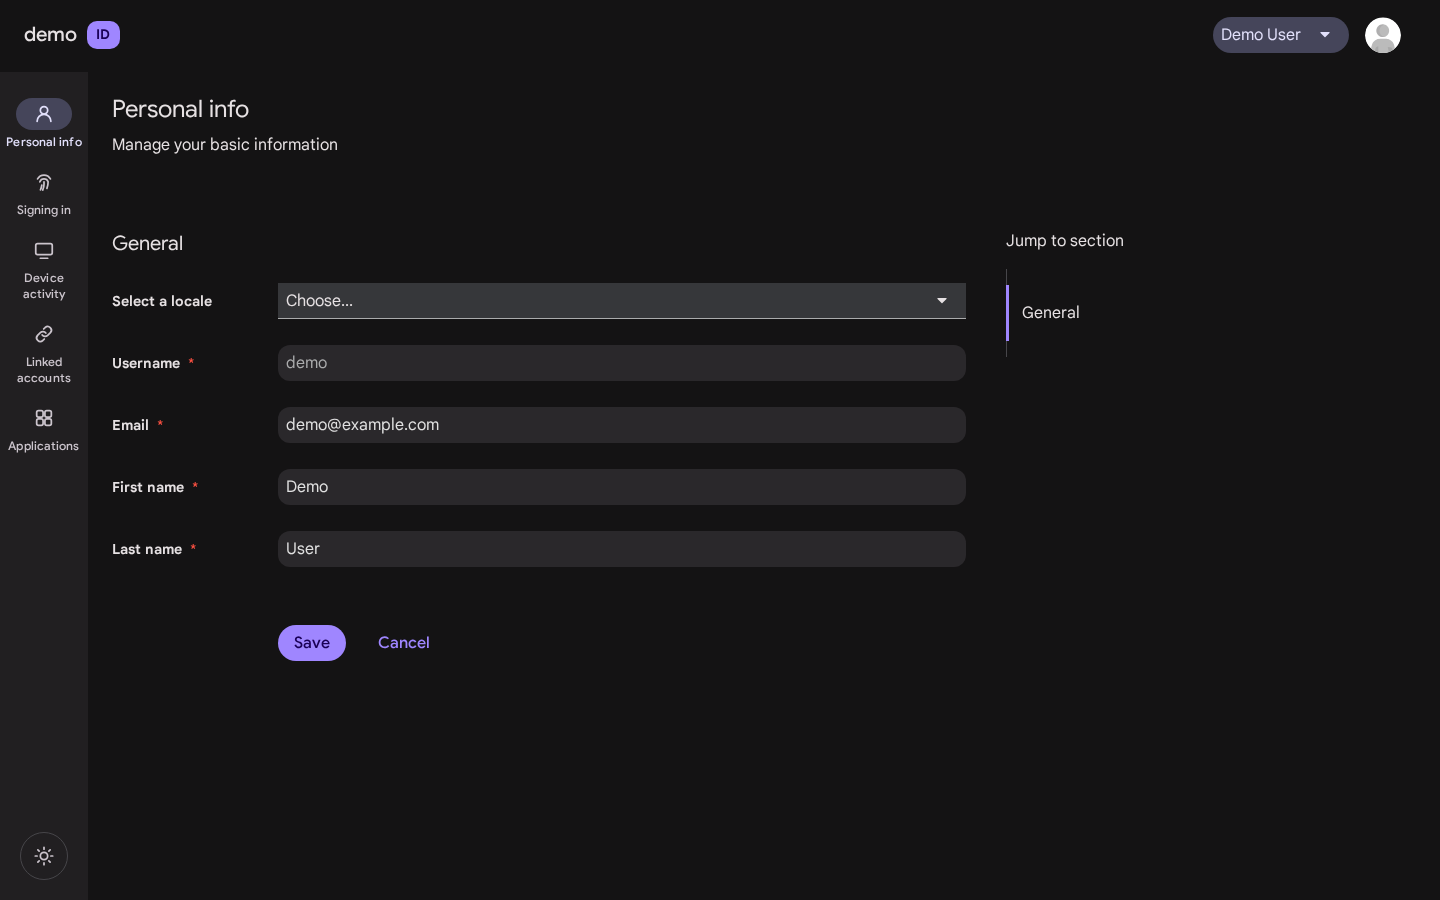
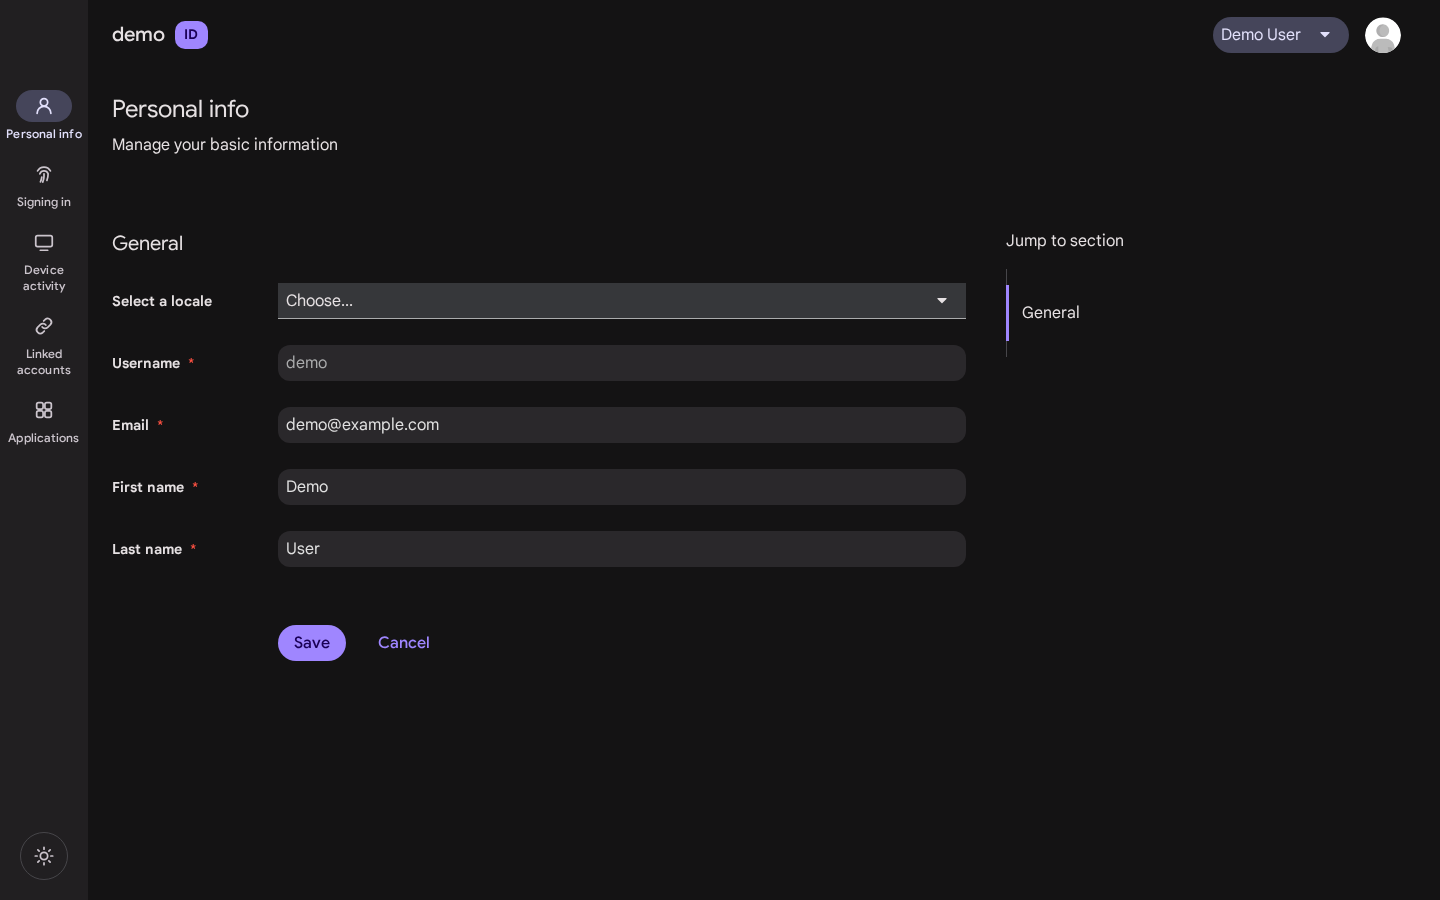
Promo polish: Material 3 demo realm, 50 fps motion GIF with visible cursor, sharper device frames
- Demo realm display name: My Realm -> Material 3 (hero, screenshots, GIF)
- motion.gif: motion-interpolated to 50 fps — the GIF format's physical
  ceiling (frame delays are centiseconds; browsers clamp under 2 cs) —
  and a visible cursor with Material click ripples so every interaction
  reads clearly
- Hero devices: tighter corner radii, phone without a camera cutout

diff --git a/dev/motion_gif.py b/dev/motion_gif.py
@@ -18,6 +18,62 @@ ROOT = pathlib.Path(__file__).resolve().parent.parent
 OUT = ROOT / "docs" / "motion.gif"
 SIZE = {"width": 1280, "height": 800}
 
+# Visible cursor + Material-colored click ripple, injected into every page so
+# the recording shows what is being interacted with.
+CURSOR_JS = """
+(() => {
+  const boot = () => {
+    if (document.getElementById('__m3cursor')) return;
+    const c = document.createElement('div');
+    c.id = '__m3cursor';
+    c.style.cssText = 'position:fixed;z-index:2147483647;width:22px;height:22px;' +
+      'border-radius:50%;background:rgba(100,66,214,.9);border:2.5px solid #fff;' +
+      'box-shadow:0 2px 10px rgba(0,0,0,.4);pointer-events:none;' +
+      'transform:translate(-50%,-50%);left:-60px;top:-60px;' +
+      'transition:width .12s,height .12s';
+    document.body.appendChild(c);
+    const st = document.createElement('style');
+    st.textContent = '@keyframes __m3rip{to{width:70px;height:70px;opacity:0}}';
+    document.head.appendChild(st);
+    addEventListener('mousemove', e => {
+      c.style.left = e.clientX + 'px'; c.style.top = e.clientY + 'px';
+    }, true);
+    addEventListener('mousedown', e => {
+      c.style.width = '15px'; c.style.height = '15px';
+      const r = document.createElement('div');
+      r.style.cssText = 'position:fixed;z-index:2147483646;left:' + e.clientX +
+        'px;top:' + e.clientY + 'px;width:16px;height:16px;border-radius:50%;' +
+        'border:3px solid rgba(100,66,214,.75);pointer-events:none;' +
+        'transform:translate(-50%,-50%);animation:__m3rip .55s ease-out forwards';
+      document.body.appendChild(r);
+      setTimeout(() => r.remove(), 700);
+    }, true);
+    addEventListener('mouseup', () => {
+      c.style.width = '22px'; c.style.height = '22px';
+    }, true);
+  };
+  if (document.readyState === 'loading') addEventListener('DOMContentLoaded', boot);
+  else boot();
+})();
+"""
+
+
+def glide(page, selector, steps=28):
+    """Move the visible cursor smoothly onto the element's center."""
+    el = page.locator(selector).first
+    el.scroll_into_view_if_needed()
+    box = el.bounding_box()
+    page.mouse.move(box["x"] + box["width"] / 2, box["y"] + box["height"] / 2,
+                    steps=steps)
+
+
+def click(page, selector):
+    glide(page, selector)
+    page.wait_for_timeout(280)
+    page.mouse.down()
+    page.wait_for_timeout(110)
+    page.mouse.up()
+
 
 def main():
     tmp = pathlib.Path(tempfile.mkdtemp(prefix="m3gif"))
@@ -25,6 +81,7 @@ def main():
         b = p.chromium.launch()
         ctx = b.new_context(viewport=SIZE, color_scheme="light", locale="en",
                             record_video_dir=str(tmp), record_video_size=SIZE)
+        ctx.add_init_script(CURSOR_JS)
         page = ctx.new_page()
 
         # Login: card entrance.
@@ -33,44 +90,44 @@ def main():
         page.wait_for_timeout(1400)
 
         # Hover states: passkey button, a provider chip.
-        page.hover("#authenticateWebAuthnButton")
+        glide(page, "#authenticateWebAuthnButton")
         page.wait_for_timeout(700)
-        page.hover(".m3-social-btn >> nth=0")
+        glide(page, ".m3-social-btn >> nth=0", steps=18)
         page.wait_for_timeout(700)
 
         # Password section expands and collapses.
-        page.click(".m3-pass-details summary")
+        click(page, ".m3-pass-details summary")
         page.wait_for_timeout(1100)
-        page.click(".m3-pass-details summary")
+        click(page, ".m3-pass-details summary")
         page.wait_for_timeout(900)
 
         # Theme toggle: light -> dark -> light.
-        page.click("#m3-theme-toggle")
+        click(page, "#m3-theme-toggle")
         page.wait_for_timeout(1000)
-        page.click("#m3-theme-toggle")
+        click(page, "#m3-theme-toggle")
         page.wait_for_timeout(900)
 
         # Register: exit + entrance animations, then back.
-        page.click("#kc-registration a")
+        click(page, "#kc-registration a")
         page.wait_for_selector("#kc-register-form", timeout=20000)
         page.wait_for_timeout(1500)
-        page.click('a:has-text("Back to login")')
+        click(page, 'a:has-text("Back to login")')
         page.wait_for_selector(".m3-pass-details", timeout=20000)
         page.wait_for_timeout(1200)
 
         # Sign in: loader reveal, then rail navigation (fade-through).
-        page.evaluate("document.querySelector('details.m3-pass-details').open = true")
-        page.wait_for_timeout(400)
+        click(page, ".m3-pass-details summary")
+        page.wait_for_timeout(700)
         page.fill("#username", "demo")
         page.fill("#password", "demo1234")
-        page.click("#kc-login")
+        click(page, "#kc-login")
         page.wait_for_selector(".m3-rail", timeout=25000)
         page.wait_for_timeout(1600)
-        page.click('.m3-rail-item[href*="signing-in"]')
+        click(page, '.m3-rail-item[href*="signing-in"]')
         page.wait_for_timeout(1500)
-        page.click('.m3-rail-item[href*="linked-accounts"]')
+        click(page, '.m3-rail-item[href*="linked-accounts"]')
         page.wait_for_timeout(1500)
-        page.click("#m3-theme-toggle")
+        click(page, "#m3-theme-toggle")
         page.wait_for_timeout(1400)
 
         page.close()
@@ -78,12 +135,17 @@ def main():
         ctx.close()
         b.close()
 
+    # 50 fps is the physical ceiling of the GIF format (frame delays are in
+    # centiseconds and browsers clamp anything under 2 cs) — motion-interpolate
+    # the ~25 fps screen recording up to it for maximum smoothness.
+    flt = ("minterpolate=fps=50:mi_mode=mci:mc_mode=aobmc:me_mode=bidir:vsbmc=1,"
+           "scale=960:-1:flags=lanczos")
     palette = tmp / "palette.png"
     subprocess.run(["ffmpeg", "-y", "-i", video,
-                    "-vf", "fps=18,scale=960:-1:flags=lanczos,palettegen=stats_mode=diff",
+                    "-vf", f"{flt},palettegen=stats_mode=diff",
                     str(palette)], check=True, capture_output=True)
     subprocess.run(["ffmpeg", "-y", "-i", video, "-i", str(palette),
-                    "-lavfi", "fps=18,scale=960:-1:flags=lanczos[x];[x][1:v]paletteuse=dither=bayer:bayer_scale=4:diff_mode=rectangle",
+                    "-lavfi", f"{flt}[x];[x][1:v]paletteuse=dither=bayer:bayer_scale=4:diff_mode=rectangle",
                     str(OUT)], check=True, capture_output=True)
     print(f"saved {OUT} ({OUT.stat().st_size // 1024} KiB)")
 

diff --git a/dev/promo.py b/dev/promo.py
@@ -74,13 +74,13 @@ HTML = """<!DOCTYPE html>
             transform: rotateY(-6deg) rotateX(2deg); transform-style: preserve-3d;
             filter: drop-shadow(0 70px 90px rgba(30, 20, 60, .30))
                     drop-shadow(0 14px 22px rgba(30, 20, 60, .22)); }
-  .laptop .lid { border-radius: 22px 22px 0 0; padding: 12px 12px 10px;
+  .laptop .lid { border-radius: 12px 12px 0 0; padding: 12px 12px 10px;
                  background: linear-gradient(180deg, #2a2a2e 0%, #101013 60%, #060608 100%);
                  box-shadow: inset 0 1px 1px rgba(255,255,255,.22),
                              inset 0 -1px 0 rgba(0,0,0,.6); }
-  .laptop .lid img { display: block; width: 100%; border-radius: 10px; }
+  .laptop .lid img { display: block; width: 100%; border-radius: 5px; }
   .laptop .deck { height: 30px; margin: 0 -74px; position: relative;
-                  border-radius: 4px 4px 18px 18px;
+                  border-radius: 3px 3px 10px 10px;
                   background: linear-gradient(180deg, #f2eef4 0%, #d8d2dc 45%, #aca5b2 92%, #837c89 100%);
                   box-shadow: inset 0 1px 0 rgba(255,255,255,.85),
                               inset 0 -2px 3px rgba(0,0,0,.28); }
@@ -91,26 +91,22 @@ HTML = """<!DOCTYPE html>
 
   .tablet { position: absolute; right: 60px; top: 84px; width: 480px;
             transform: rotateY(-9deg) rotateX(1.5deg);
-            border-radius: 30px; padding: 13px;
+            border-radius: 16px; padding: 13px;
             background: linear-gradient(145deg, #34343a 0%, #131316 55%, #08080a 100%);
             box-shadow: inset 0 0 0 1.5px rgba(255,255,255,.14),
                         0 60px 90px rgba(30, 20, 60, .34),
                         0 12px 24px rgba(30, 20, 60, .25); }
-  .tablet img { display: block; width: 100%; border-radius: 18px; }
+  .tablet img { display: block; width: 100%; border-radius: 8px; }
 
   .phone { position: absolute; right: 352px; bottom: 104px; width: 305px;
            transform: rotateY(5deg) rotateZ(-2deg);
-           border-radius: 50px; padding: 11px;
+           border-radius: 22px; padding: 11px;
            background: linear-gradient(150deg, #3c3c42 0%, #17171a 50%, #050507 100%);
            box-shadow: inset 0 0 0 1.5px rgba(255,255,255,.18),
                        0 50px 90px rgba(30, 20, 60, .42),
                        0 12px 22px rgba(30, 20, 60, .30);
            z-index: 6; }
-  .phone img { display: block; width: 100%; border-radius: 40px; }
-  .phone .cam { position: absolute; top: 24px; left: 50%; margin-left: -6px;
-                width: 12px; height: 12px; border-radius: 50%;
-                background: radial-gradient(circle at 35% 35%, #2c2c34 0%, #000 70%);
-                box-shadow: inset 0 0 2px rgba(255,255,255,.25); }
+  .phone img { display: block; width: 100%; border-radius: 14px; }
 </style></head>
 <body>
   <div class="blob b1"></div><div class="blob b2"></div><div class="blob b3"></div>
@@ -132,7 +128,7 @@ HTML = """<!DOCTYPE html>
       <div class="lid glass"><img src="__LAPTOP__" alt=""></div>
       <div class="deck"></div>
     </div>
-    <div class="phone glass"><img src="__PHONE__" alt=""><span class="cam"></span></div>
+    <div class="phone glass"><img src="__PHONE__" alt=""></div>
   </div>
 </body></html>
 """
